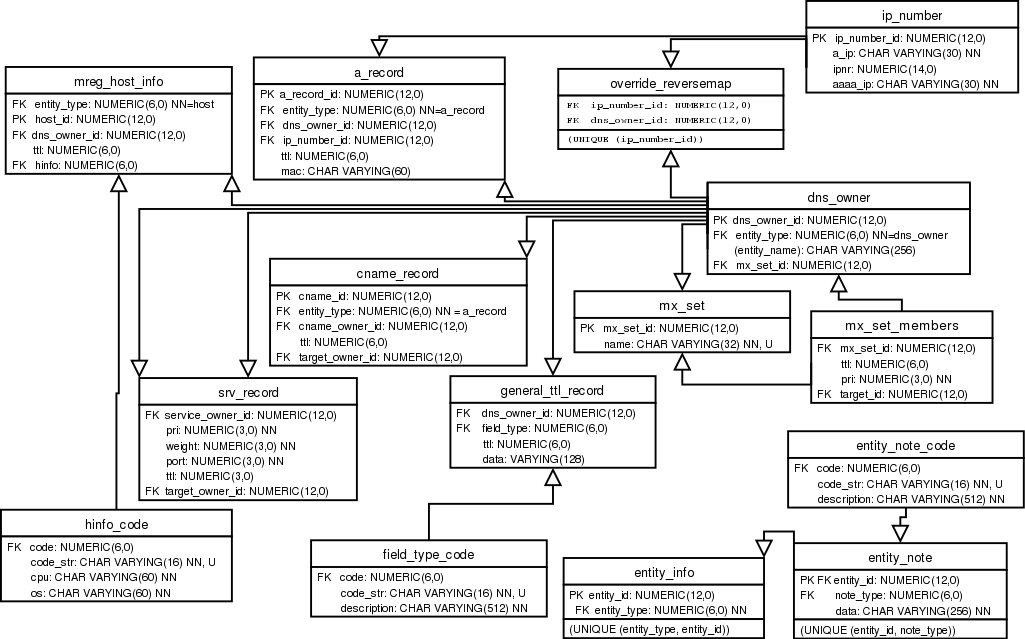
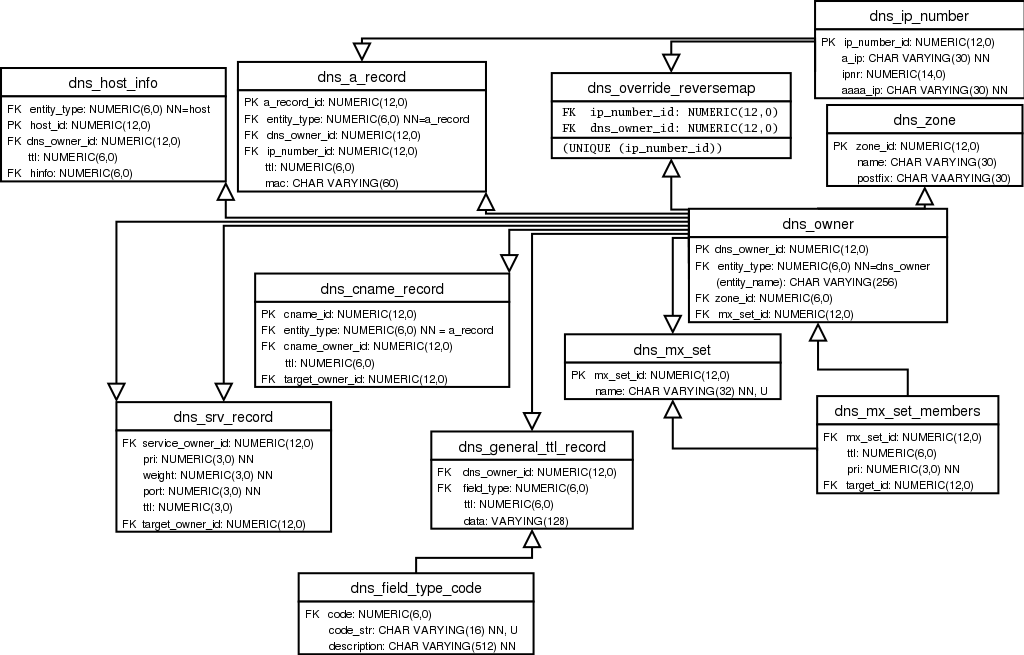
minor updates to reflect recent changes

Changed region(s): [[0.0, 0.0, 1.0, 1.0]]

diff --git a/doc/extensions/dns/dns.rst b/doc/extensions/dns/dns.rst
@@ -148,17 +148,6 @@ Associated tables:
   .. sysinclude:: %(ext_sqldoc)s --table dns_srv_record
 
 
-
-EntityNote.EntityNote
-~~~~~~~~~~~~~~~~~~~~~~~
-.. sysinclude:: %(ext_pydoc)sEntityNote.py %(template)s --class_doc EntityNote
-
-Associated table:
-
-  .. sysinclude:: %(ext_sqldoc)s --table dns_entity_note
-
-Code values are stored in ``dns_entity_note_code``
-
 HostInfo.HostInfo
 ~~~~~~~~~~~~~~~~~~
 .. sysinclude:: %(ext_pydoc)sHostInfo.py %(template)s --class_doc HostInfo
@@ -230,8 +219,6 @@ API:
     Handles the cname_record table
   Cerebrum/modules/dns/DnsOwner.py
     handles dns_owner, mx_set, mx_set_members, general_ttl_record, srv_record
-  Cerebrum/modules/dns/EntityNote.py
-    handles entity_note.  Should perhaps be moved into Cerebrum-core
   Cerebrum/modules/dns/IntegrityHelper.py
     various helper methods used by the API and bofhd to assert that we
     don't violate DNS schema etc.
